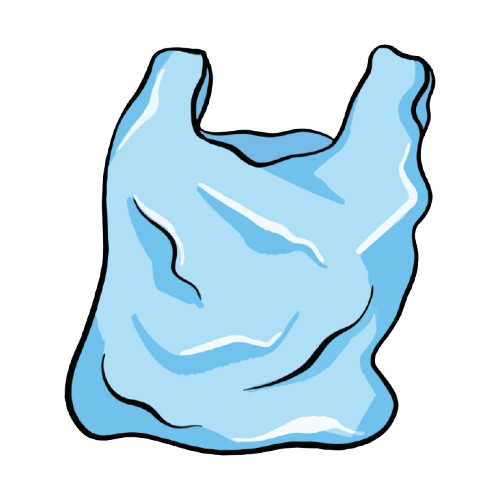
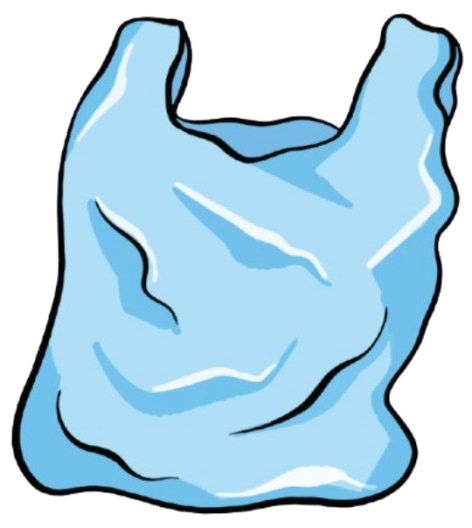
fixed the hitbox and updated images

diff --git a/main.py b/main.py
@@ -10,22 +10,21 @@ class Player(pygame.sprite.Sprite):
         self.y = 250
         self.angle = 25
         self.screen = screen
-        self.image = pygame.image.load("./assets/turtle.png")
-        self.image = pygame.transform.scale(self.image,(156,104))
+        self.image = pygame.image.load("./assets/playerturtle.png")
+        self.image = pygame.transform.scale(self.image,(int(382/4),int(344/4)))
         self.rect = self.image.get_rect()
-        self.rect.center = (self.x,self.y)
+        self.rect.topleft = (self.x,self.y)
         self.speed = 10
         self.alive = True
     def Move(self,x_movement,y_movement):
         if self.alive:
-            test_rect = self.rect
-            test_rect.x += self.speed * x_movement
-            test_rect.y += self.speed * y_movement
-            collision = False
-            if not collision:
-                self.x += self.speed * x_movement
-                self.y += self.speed * y_movement
+            self.x += self.speed * x_movement
+            self.rect.x += self.speed * x_movement
+            self.y += self.speed * y_movement
+            self.rect.y += self.speed * y_movement
+            self.rect.topleft = (self.x,self.y)
     def update(self):
+        pygame.draw.rect(screen, (255,0,0), self.rect, 2)
         self.screen.blit(self.image,(self.x,self.y))
 class Enemy():
     def __init__(self,x, y,rol, speed, size, screen):
@@ -34,21 +33,15 @@ class Enemy():
         self.rol=rol
         self.screen = screen
         self.isvisible=True
-        self.pic = pygame.image.load("./assets/plasticbag.png")
-        #self.pic2 = pygame.image.load("../assets/Fish02_B.png")
         self.speed = speed
         self.size = size
-        self.pic = pygame.transform.scale(self.pic,(int(self.size*0.75),int(self.size*0.75)))
-        #self.pic2 = pygame.transform.scale(self.pic2,(int(self.size*1.25),self.size))
-        self.hitbox = pygame.Rect(self.x,self.y,self.size,self.size)
+        self.image = pygame.image.load("./assets/plasticbag.png")
+        self.image = pygame.transform.scale(self.image,(self.size,self.size))
+        self.hitbox = self.image.get_rect()
+        self.hitbox.topleft = (self.x,self.y)
         self.animation_timer_max = 16
         self.swimming_timer = self.animation_timer_max
         self.swimming_frame = 0
-        
-       # if self.speed < 0:
-        #    self.pic = pygame.transform.flip (self.pic, True, False)
-            #self.pic2 = pygame.transform.flip (self.pic2, True, False)
-
     def createenemy(enemylist):
         spawndelay=30
         enemyspawn = random.randint(0,spawndelay)
@@ -71,27 +64,10 @@ class Enemy():
             enemy = Enemy(enemynewx,spawnypos,rol,5,100,screen)
             enemylist.append(enemy)
     def update(self, screen):
-        """
-        self.swimming_timer -=1
-        if self.swimming_timer <= 0:
-            self.swimming_timer = self.animation_timer_max
-            self.swimming_frame += 1
-            if self.swimming_frame > 1:
-                self.swimming_frame = 0
-        self.x += self.speed
-        self.hitbox.x += self.speed
-       # pygame.draw.rect(screen, (50,150,250), self.hitbox)
-        if self.swimming_frame == 0:
-        """
-        #screen.blit(self.pic,(self.x, self.y))
-        #if self.rol==0:
-        #    self.x+=self.speed
-        #elif self.rol==1:
-        #    self.x-=self.speed
-        #else:
-         #   screen.blit(self.pic2,(self.x,self.y))
+        pygame.draw.rect(screen, (255,0,0), self.hitbox, 2)
         if self.isvisible:
-            screen.blit(self.pic,(self.x, self.y))
+            screen.blit(self.image,(self.x, self.y))
+            self.hitbox.topleft = (self.x,self.y)
             if self.rol==0:
                 self.x+=self.speed
                 self.hitbox.x += self.speed
@@ -106,21 +82,16 @@ class Food():
         self.y = y
         self.rol=rol
         self.screen = screen
-        self.pic = pygame.image.load("./assets/food.png")
-        #self.pic2 = pygame.image.load("../assets/Fish02_B.png")
         self.speed = speed
         self.size = size
-        self.pic = pygame.transform.scale(self.pic,(int(self.size*0.5),int(self.size*0.5)))
-        #self.pic2 = pygame.transform.scale(self.pic2,(int(self.size*1.25),self.size))
-        self.hitbox = pygame.Rect(self.x,self.y,self.size,self.size)
+        self.image = pygame.image.load("./assets/food.png")
+        self.image = pygame.transform.scale(self.image,(int(self.size*0.5),int(self.size*0.5)))
+        self.hitbox = self.image.get_rect()
+        self.hitbox.topleft = (self.x,self.y)
         self.animation_timer_max = 16
         self.swimming_timer = self.animation_timer_max
         self.swimming_frame = 0
         self.isvisible=True
-        
-       # if self.speed < 0:
-        #    self.pic = pygame.transform.flip (self.pic, True, False)
-            #self.pic2 = pygame.transform.flip (self.pic2, True, False)
 
     def createfood(foodlist):
         foodspawn = random.randint(0,40)
@@ -141,21 +112,9 @@ class Food():
             food = Food(foodnewx,foodypos,frol,5,100,screen)
             foodlist.append(food)
     def update(self, screen):
-        """
-        self.swimming_timer -=1
-        if self.swimming_timer <= 0:
-            self.swimming_timer = self.animation_timer_max
-            self.swimming_frame += 1
-            if self.swimming_frame > 1:
-                self.swimming_frame = 0
-        self.x += self.speed
-        
-       # pygame.draw.rect(screen, (50,150,250), self.hitbox)
-        if self.swimming_frame == 0:
-        """
-
+        pygame.draw.rect(screen, (255,0,0), self.hitbox, 2)
         if self.isvisible:
-            screen.blit(self.pic,(self.x, self.y))
+            screen.blit(self.image,(self.x, self.y))
             if self.rol==0:
                 self.x+=self.speed
                 self.hitbox.x += self.speed
@@ -168,6 +127,8 @@ class Food():
 ###########################
 
 pygame.init()
+score = 0
+lives = 3
 score = 0
 lives = 3
 game_width = 1000
@@ -217,6 +178,7 @@ while running:
 
 #########################
 
+
     screen.blit(backgroundimage,(0,0))
     backgroundimage = pygame.transform.scale(backgroundimage,(1101,667))
     font = pygame.font.Font(None, 35)
@@ -227,7 +189,7 @@ while running:
             food.isvisible=False
             score+=1
         food.update(screen)
-    text = font.render("Score: " + str(score), True, (0, 0, 0))
+    text = font.render("Score: " + str(score), True, (0, 0, 0))    
     screen.blit(text, (15, 45))
     text = font.render("Time Played: " , True, (0, 0, 0))
     screen.blit(text, (15, 75))
